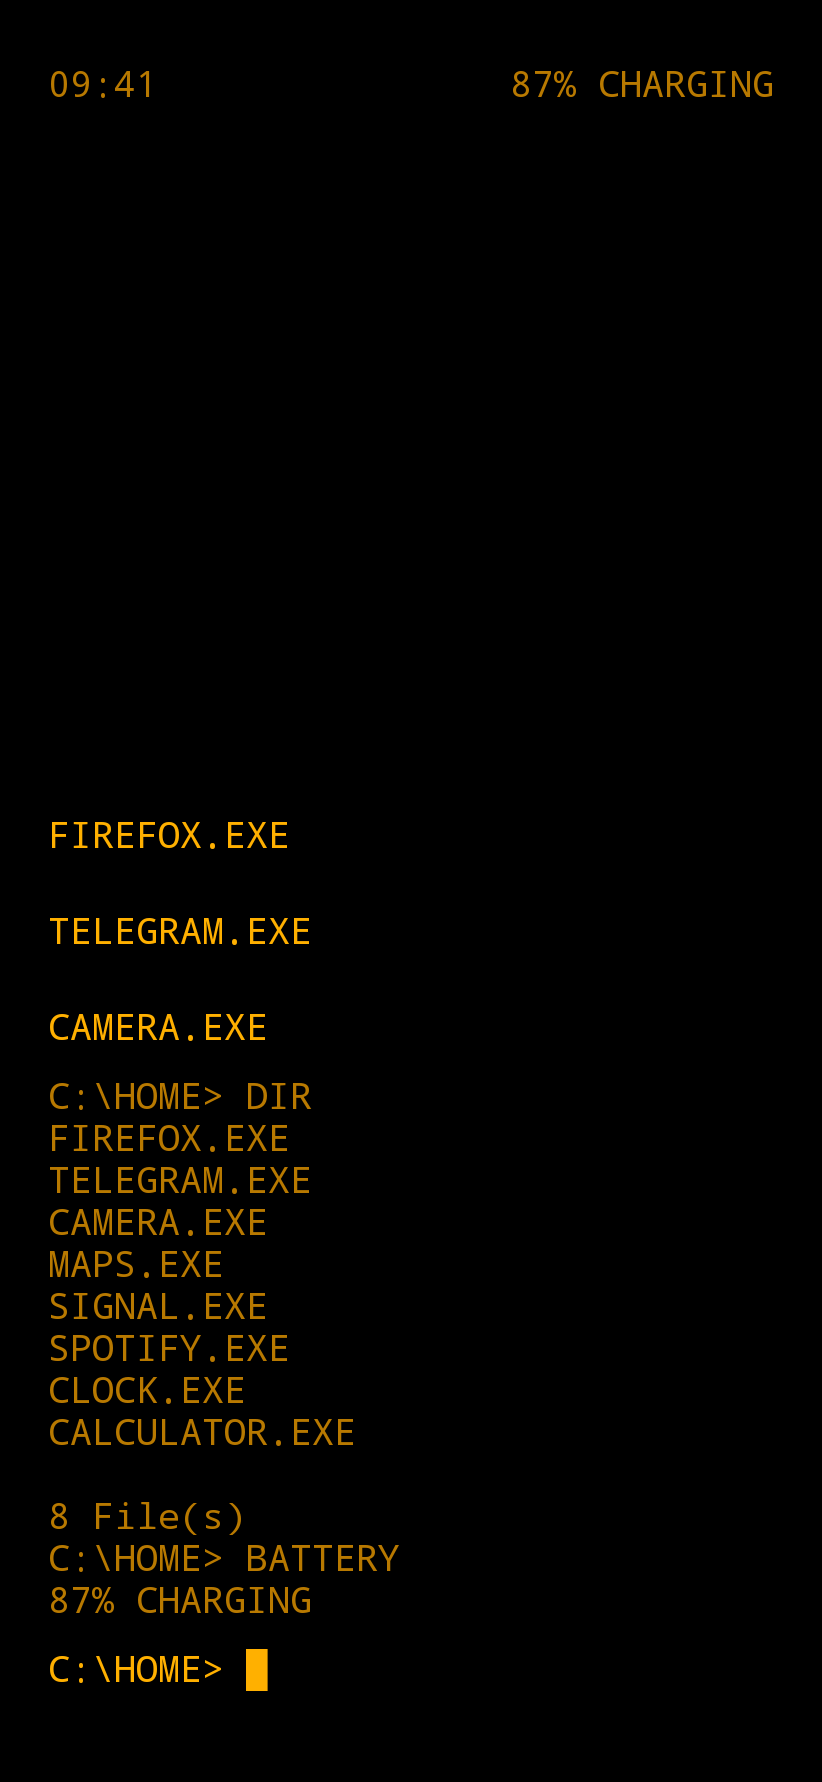
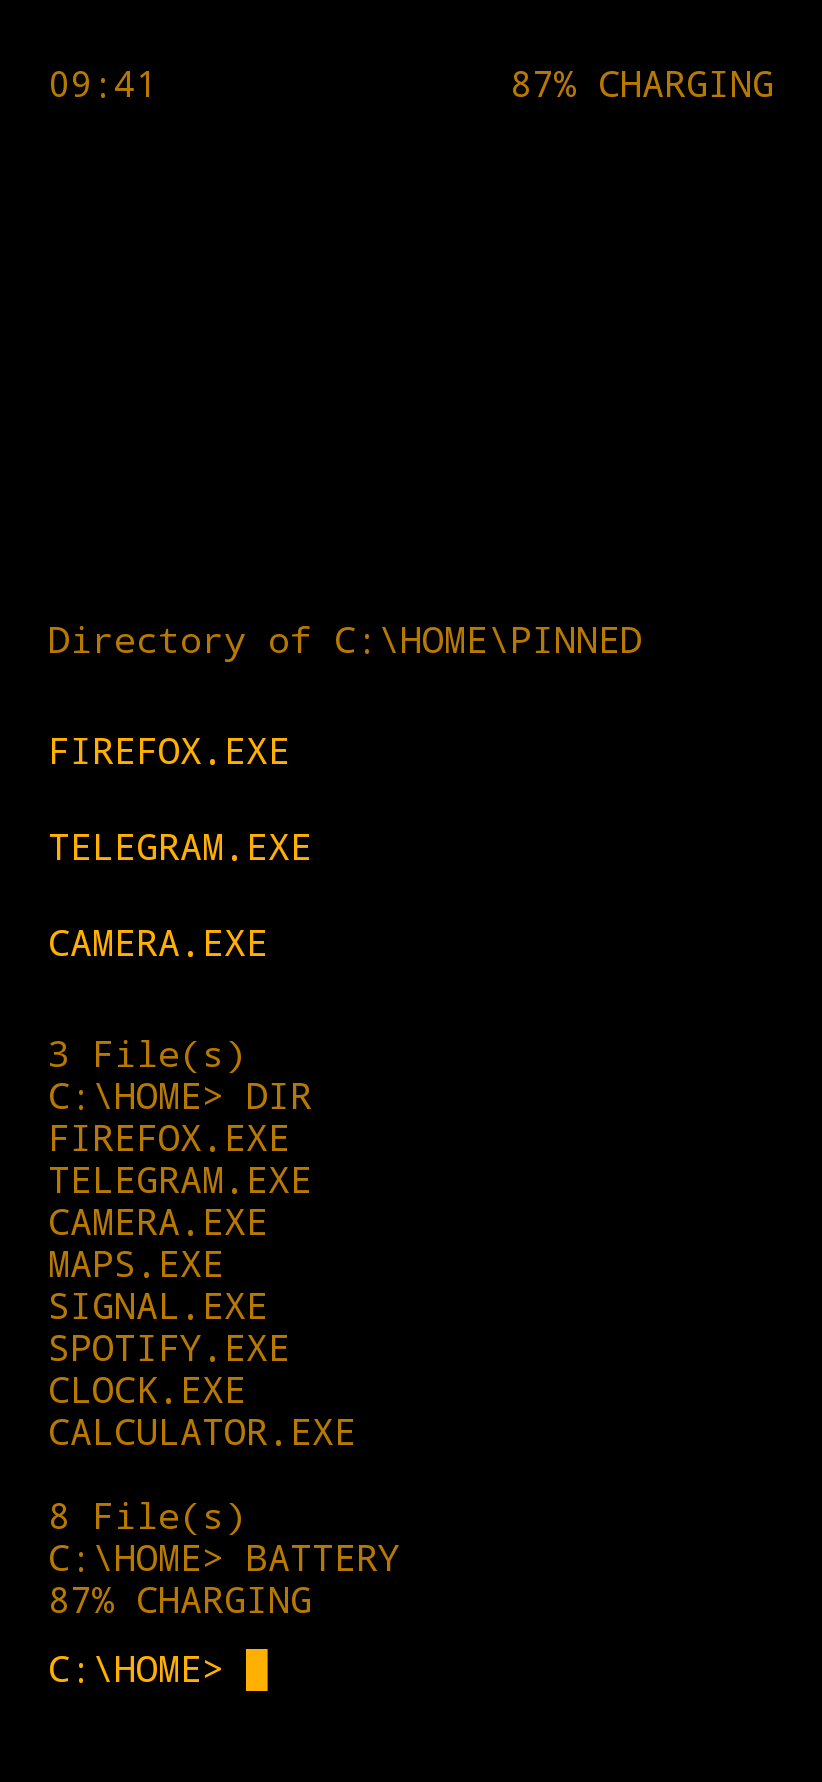
Name the pinned section on Home (#82)
Closes #79

The pinned applications and shortcuts were written as bare rows,
indistinguishable from the rows a search produces and from the rows `ls`
prints. The active shell now frames them the way its own listing command
announces a directory.

Unix writes the path form `ls` uses when it is asked to list a
directory:

```
~/pinned:
firefox
telegram
saved messages
```

DOS writes the `DIR` heading and closes with the count it already prints
after a listing, on the drive the settings chose:

```
Directory of C:\HOME\PINNED

FIREFOX.EXE
TELEGRAM.EXE
SAVED MESSAGES.LNK

3 File(s)
```

## How

`SectionLines` carries the lines written above a block of rows and the
lines written below it, so `HomeScreen` places both without knowing
which shell is active: Unix fills only the top, DOS fills both.
`ShellProfile.formatPinnedSection` is asked where the screen already
asks for `formatAppName`, since the composable holds everything the
lines depend on, so no state field and no ViewModel change were needed.

Applications and shortcuts share one section. DOS already tells them
apart through `.EXE` and `.LNK`, and a second heading would take half of
the space above the prompt for the three or four rows Home usually
holds.

A Home with nothing pinned is framed by nothing. The lines are inert:
they carry the output colour, answer no touch, and are counted by
`rowCount` so Home still scrolls to its last row.

`DosShellProfile` also stops spelling `N File(s)` and the path separator
[…]

diff --git a/app/src/test/java/com/gybra/terminallauncher/ui/home/HomeScreenTest.kt b/app/src/test/java/com/gybra/terminallauncher/ui/home/HomeScreenTest.kt
@@ -6,6 +6,7 @@ import androidx.compose.runtime.setValue
 import androidx.compose.ui.graphics.Color
 import androidx.compose.ui.graphics.toPixelMap
 import androidx.compose.ui.test.assertCountEquals
+import androidx.compose.ui.test.assertHasNoClickAction
 import androidx.compose.ui.test.assertHeightIsAtLeast
 import androidx.compose.ui.test.assertIsFocused
 import androidx.compose.ui.test.assertIsDisplayed
@@ -457,6 +458,66 @@ class HomeScreenTest {
         composeRule.onNodeWithText("new tab").performTouchInput { longClick() }
 
         assertEquals(shortcut, written)
+    }
+
+    @Test
+    fun `names the pinned rows with the inert section the shell writes`() {
+        composeRule.setContent {
+            HomeScreen(
+                state = homeState().copy(
+                    apps = listOf(InstalledApp(packageName = "com.example.mail", label = "Mail")),
+                    shortcuts = listOf(
+                        AppShortcut(packageName = "com.example.mail", id = "inbox", label = "Inbox"),
+                    ),
+                ),
+                onAppClick = {},
+                onShortcutClick = {},
+                onLockScreen = {},
+                promptActions = emptyPromptActions(),
+            )
+        }
+
+        composeRule.onNodeWithText("~/pinned:").assertIsDisplayed().assertHasNoClickAction()
+        val section = pixelsOf("~/pinned:")
+        assertTrue("Expected the arrested colour", section.contains(terminalColors().secondary))
+        assertTrue("Expected no full colour", !section.contains(terminalColors().foreground))
+    }
+
+    @Test
+    fun `closes the DOS pinned section with what it counted`() {
+        composeRule.setContent {
+            HomeScreen(
+                state = homeState().copy(
+                    shellProfile = DosShellProfile,
+                    apps = listOf(
+                        InstalledApp(packageName = "com.example.mail", label = "Mail"),
+                        InstalledApp(packageName = "com.example.maps", label = "Maps"),
+                    ),
+                ),
+                onAppClick = {},
+                onShortcutClick = {},
+                onLockScreen = {},
+                promptActions = emptyPromptActions(),
+            )
+        }
+
+        composeRule.onNodeWithText("Directory of C:\\HOME\\PINNED").assertIsDisplayed()
+        composeRule.onNodeWithText("2 File(s)").assertIsDisplayed()
+    }
+
+    @Test
+    fun `writes no pinned section when nothing is pinned`() {
+        composeRule.setContent {
+            HomeScreen(
+                state = homeState(),
+                onAppClick = {},
+                onShortcutClick = {},
+                onLockScreen = {},
+                promptActions = emptyPromptActions(),
+            )
+        }
+
+        composeRule.onNodeWithText("~/pinned:").assertDoesNotExist()
     }
 
     @Test

diff --git a/app/src/main/java/com/gybra/terminallauncher/ui/home/HomeScreen.kt b/app/src/main/java/com/gybra/terminallauncher/ui/home/HomeScreen.kt
@@ -34,6 +34,7 @@ import androidx.compose.ui.platform.testTag
 import androidx.compose.ui.unit.dp
 import com.gybra.terminallauncher.launcher.InstalledApp
 import com.gybra.terminallauncher.launcher.AppShortcut
+import com.gybra.terminallauncher.shell.SectionLines
 import com.gybra.terminallauncher.shell.ShellContext
 import com.gybra.terminallauncher.shell.ShellProfile
 import com.gybra.terminallauncher.ui.TestTag
@@ -111,7 +112,19 @@ public fun HomeScreen(
  */
 private val HomeUiState.rowCount: Int
     get() = apps.size + shortcuts.size + history.size + searchResults.size +
-        (if (helpInvitation == null) 0 else 1)
+        (if (helpInvitation == null) 0 else 1) + pinnedSection.rowCount
+
+/** The lines the shell frames the pinned rows with, and none at all when Home holds none. */
+private val HomeUiState.pinnedSection: SectionLines
+    get() = if (apps.isEmpty() && shortcuts.isEmpty()) {
+        SectionLines()
+    } else {
+        shellProfile.formatPinnedSection(shellContext, items = apps.size + shortcuts.size)
+    }
+
+/** How many rows a section takes, since each side of it is written as one row of lines. */
+private val SectionLines.rowCount: Int
+    get() = listOf(above, below).count(List<String>::isNotEmpty)
 
 /** Writes the line an empty Home reads, which the shell wrote and nothing here can start. */
 private fun LazyListScope.helpInvitation(line: String?) {
@@ -166,6 +179,8 @@ private fun LazyListScope.pinnedItems(
     state: HomeUiState,
     rowActions: RowActions,
 ) {
+    val section = state.pinnedSection
+    sectionRow(item = HomeItem.PINNED_HEADER, lines = section.above)
     items(
         items = state.apps,
         key = InstalledApp::packageName,
@@ -185,6 +200,19 @@ private fun LazyListScope.pinnedItems(
             onClick = { rowActions.onShortcutClick(shortcut) },
             onLongClick = { rowActions.onShortcutLongClick(shortcut) },
         )
+    }
+    sectionRow(item = HomeItem.PINNED_FOOTER, lines = section.below)
+}
+
+/** Writes the lines a shell frames a block of rows with, which nothing here can start. */
+private fun LazyListScope.sectionRow(item: HomeItem, lines: List<String>) {
+    if (lines.isEmpty()) {
+        return
+    }
+    item(key = item.key) {
+        Column {
+            lines.forEach { line -> TerminalLine(text = line) }
+        }
     }
 }
 

diff --git a/app/src/main/java/com/gybra/terminallauncher/shell/dos/DosShellProfile.kt b/app/src/main/java/com/gybra/terminallauncher/shell/dos/DosShellProfile.kt
@@ -7,6 +7,8 @@ import com.gybra.terminallauncher.launcher.AppShortcut
 import com.gybra.terminallauncher.shell.LauncherLocation
 import com.gybra.terminallauncher.shell.PromptCursor
 import com.gybra.terminallauncher.shell.ShellContext
+import com.gybra.terminallauncher.shell.PINNED_DIRECTORY
+import com.gybra.terminallauncher.shell.SectionLines
 import com.gybra.terminallauncher.shell.ShellProfile
 import com.gybra.terminallauncher.shell.ShellType
 import java.util.Locale
@@ -28,7 +30,7 @@ public object DosShellProfile : ShellProfile {
     override fun formatMessage(message: String): String = message.uppercase(Locale.ROOT)
 
     override fun formatPath(context: ShellContext): String {
-        val root = "${context.dosDrive}:\\"
+        val root = "${context.dosDrive}:$PATH_SEPARATOR"
         if (!context.showPath) {
             return root
         }
@@ -59,8 +61,26 @@ public object DosShellProfile : ShellProfile {
     }
 
     override fun formatAppList(apps: List<InstalledApp>): List<String> =
-        apps.map(::formatAppName) + listOf("", "${apps.size} File(s)")
+        apps.map(::formatAppName) + listOf("", fileCount(apps.size))
+
+    /** Announces the pinned block the way DIR announces the directory it is about to write. */
+    override fun formatPinnedSection(context: ShellContext, items: Int): SectionLines {
+        val directory = formatPath(context.atHome()) + PATH_SEPARATOR + formatMessage(PINNED_DIRECTORY)
+
+        return SectionLines(
+            above = listOf("Directory of $directory", ""),
+            below = listOf("", fileCount(items)),
+        )
+    }
 
     override fun formatHelp(commands: List<CommandSummary>): List<String> =
         super.formatHelp(commands) + listOf("", "${commands.size} Command(s)")
+
+    /** Points [this] at Home with the path shown, which is where the pinned block always is. */
+    private fun ShellContext.atHome(): ShellContext =
+        copy(location = LauncherLocation.HOME, showPath = true)
+
+    private fun fileCount(files: Int): String = "$files File(s)"
+
+    private const val PATH_SEPARATOR = "\\"
 }

diff --git a/app/src/test/java/com/gybra/terminallauncher/shell/dos/DosShellProfileTest.kt b/app/src/test/java/com/gybra/terminallauncher/shell/dos/DosShellProfileTest.kt
@@ -9,6 +9,7 @@ import com.gybra.terminallauncher.shell.DosDrive
 import com.gybra.terminallauncher.shell.LauncherLocation
 import com.gybra.terminallauncher.shell.PromptCursor
 import com.gybra.terminallauncher.shell.PromptSymbol
+import com.gybra.terminallauncher.shell.SectionLines
 import com.gybra.terminallauncher.shell.ShellContext
 import com.gybra.terminallauncher.shell.ShellType
 import org.junit.Assert.assertEquals
@@ -165,5 +166,26 @@ class DosShellProfileTest {
     @Test
     fun `invites the help command on an empty Home in upper case`() {
         assertEquals("TYPE HELP TO LIST THE COMMANDS", profile.formatHelpInvitation())
+    }
+
+    @Test
+    fun `names the pinned section the way DIR names a listed directory`() {
+        assertEquals(
+            SectionLines(
+                above = listOf("Directory of C:\\HOME\\PINNED", ""),
+                below = listOf("", "3 File(s)"),
+            ),
+            profile.formatPinnedSection(contextAt(LauncherLocation.HOME), items = 3),
+        )
+    }
+
+    @Test
+    fun `names the pinned directory on the chosen drive, whatever the prompt shows`() {
+        val context = contextAt(LauncherLocation.HOME).copy(dosDrive = DosDrive.D, showPath = false)
+
+        assertEquals(
+            listOf("Directory of D:\\HOME\\PINNED", ""),
+            profile.formatPinnedSection(context, items = 1).above,
+        )
     }
 }

diff --git a/app/src/main/java/com/gybra/terminallauncher/shell/ShellProfile.kt b/app/src/main/java/com/gybra/terminallauncher/shell/ShellProfile.kt
@@ -30,6 +30,14 @@ public interface ShellProfile {
     public fun formatAppList(apps: List<InstalledApp>): List<String> = apps.map(::formatAppName)
 
     /**
+     * Writes the lines that frame the applications and shortcuts pinned to Home, the way this
+     * shell announces a directory it is listing. [items] counts them together, since a listing
+     * counts the entries it writes rather than what kind each one is.
+     */
+    public fun formatPinnedSection(context: ShellContext, items: Int): SectionLines =
+        SectionLines(above = listOf("${formatPath(context)}/$PINNED_DIRECTORY:"))
+
+    /**
      * Describes [commands] with the primary alias of this shell, so optional aliases accepted only
      * for compatibility stay out of the help output. A command taking arguments is followed by the
      * ways it is invoked, indented under its description.
@@ -79,6 +87,9 @@ public interface ShellProfile {
         "${battery.percentage}%" + if (battery.charging) " charging" else "",
     )
 }
+
+/** The directory both shells name the pinned block after, written in the case of each. */
+internal const val PINNED_DIRECTORY: String = "pinned"
 
 private const val HELP_ALIAS_COLUMN_WIDTH = 10
 

diff --git a/app/src/test/java/com/gybra/terminallauncher/shell/unix/UnixShellProfileTest.kt b/app/src/test/java/com/gybra/terminallauncher/shell/unix/UnixShellProfileTest.kt
@@ -9,6 +9,7 @@ import com.gybra.terminallauncher.shell.DosDrive
 import com.gybra.terminallauncher.shell.LauncherLocation
 import com.gybra.terminallauncher.shell.PromptCursor
 import com.gybra.terminallauncher.shell.PromptSymbol
+import com.gybra.terminallauncher.shell.SectionLines
 import com.gybra.terminallauncher.shell.ShellContext
 import com.gybra.terminallauncher.shell.ShellType
 import org.junit.Assert.assertEquals
@@ -177,6 +178,14 @@ class UnixShellProfileTest {
         assertEquals(
             "shortcuts unpin Mail Inbox",
             profile.formatCommandLine(Command.SHORTCUTS, keyword = "unpin", name = "Mail Inbox"),
+        )
+    }
+
+    @Test
+    fun `names the pinned section the way ls names a listed directory`() {
+        assertEquals(
+            SectionLines(above = listOf("~/pinned:")),
+            profile.formatPinnedSection(contextAt(LauncherLocation.HOME), items = 3),
         )
     }
 

diff --git a/app/src/main/java/com/gybra/terminallauncher/shell/SectionLines.kt b/app/src/main/java/com/gybra/terminallauncher/shell/SectionLines.kt
@@ -1,0 +1,12 @@
+package com.gybra.terminallauncher.shell
+
+/**
+ * What a shell writes around a block of rows Home keeps, such as the pinned applications: the
+ * lines printed above it and the lines printed below it. A shell that announces a block before
+ * listing it fills [above], one that closes it with a count fills [below], and a shell that says
+ * nothing leaves both empty.
+ */
+public data class SectionLines(
+    public val above: List<String> = emptyList(),
+    public val below: List<String> = emptyList(),
+)

diff --git a/app/src/main/java/com/gybra/terminallauncher/ui/home/HomeItem.kt b/app/src/main/java/com/gybra/terminallauncher/ui/home/HomeItem.kt
@@ -6,6 +6,8 @@ package com.gybra.terminallauncher.ui.home
  */
 public enum class HomeItem(public val key: String) {
     HELP_INVITATION("help-invitation"),
+    PINNED_HEADER("pinned-header"),
+    PINNED_FOOTER("pinned-footer"),
     SHORTCUT("shortcut"),
     SEARCH("search"),
     HISTORY("history"),

diff --git a/docs/design.md b/docs/design.md
@@ -48,6 +48,8 @@ Home keeps one status line fixed above everything else, where scrolling never ta
 
 Home is read from the bottom, the way a terminal is. The prompt is anchored under everything else and stays there: the software keyboard pushes it up instead of covering it, and the rows above it never move it. Between the status line and the prompt, the pinned applications, the pinned shortcuts, the terminal history, and the search results share one scrolling region that rests on the bottom, so a Home holding little keeps it within reach of the thumb rather than hanging from the top of the screen. Whatever is printed or listed last is scrolled into view, so the answer to a command sits next to the line that asked for it.
 
+The pinned block says what it is. The shell writes a line above it naming what it lists, the way its own listing command names a directory: Unix writes `~/pinned:` as `ls` writes the path it was asked to list, while DOS writes `Directory of C:\HOME\PINNED` and closes the block with the file count `DIR` prints, on the drive the settings chose whether or not the prompt shows the path. Applications and shortcuts share the one section, since DOS already tells them apart through `.EXE` and `.LNK` and a second heading would take half of the space above the prompt. A Home with nothing pinned writes no section at all, and the lines are inert: they carry the arrested colour and answer no touch.
+
 Colour carries one distinction and only one: what can be started is written in the full terminal colour, and what is merely written, the status line, what a command printed, and the lines already submitted, is arrested to the second colour of the theme. A startable row is tall enough to be operated with a finger and centres its text in that height, while the written lines keep the tight spacing of a terminal, so a block of output reads as one block instead of a list of sentences. Pressing a startable row swaps the two colours for as long as it is held, the way a TTY marks a selection, which is the whole of the feedback a touch gets and costs the launcher no colour outside the selected theme.
 
 Each theme is three colours: the background, the colour what can be started is written in, and the second colour the written lines are arrested to, which always sits between the other two so the hierarchy reads the same whichever theme is chosen. Green, Amber, and Monochrome are phosphors on black, System follows the platform brightness, C64 reproduces the light blue on blue of the machine it is named after, dimmer than the others by design, and Solarized is the dark palette of that name, the one to reach for when the screen is read for long. The system bar icons follow the background luminance, so a theme brings no code with it beyond its three colours.
